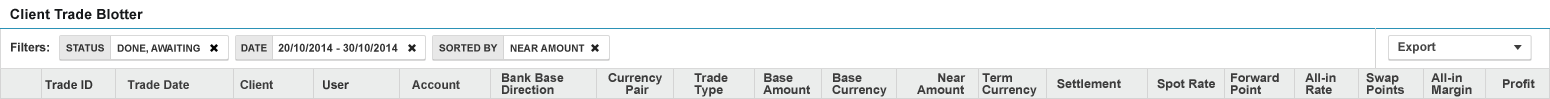
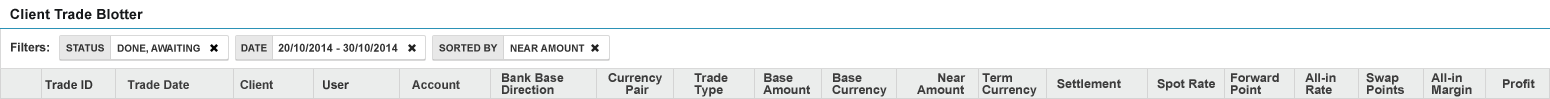
tiles buttons placeholder

diff --git a/resizable-layout/sass/resize.scss b/resizable-layout/sass/resize.scss
@@ -145,7 +145,14 @@ html, body {
 .tiles-head {
   height: 38px;
   background-image:url('../img/tiles-topbar.png');
-
+}
+.tiles-head-btn-wrap {
+  position:absolute;
+  left: 120px;
+  background-image: url('../img/tiles-topbar-btns.png');
+  display: block;
+  width: 90px;
+  height: 38px;
 }
 .tile {
   background-image: url('../img/advanced-pro-Tile_light.png');
@@ -161,9 +168,18 @@ html, body {
   }
 
 .blotter-head {
-   background-image: url('../img/client-trade-blotter-topbar.png'), url('../img/client-trade-blotter-topbar-1px.png');
+   background-image: url('../img/client-trade-blotter-topbar.png'), url('../img/client-trade-blotter-topbar-1px.png') ;
    background-repeat: no-repeat, repeat-x;
    height: 99px;
+}
+.blotter-head:after {
+  content: '';
+  background-image: url('../img/client-trade-blotter-export-btn.png');
+  height: 39px;
+  width: 175px;
+  position:absolute;
+  top: 29px;
+  right: 140px;
 }
 .blotter {
    overflow-y: scroll;

diff --git a/resizable-layout/css/resize.css b/resizable-layout/css/resize.css
@@ -132,6 +132,14 @@ html, body {
   height: 38px;
   background-image: url("../img/tiles-topbar.png"); }
 
+.tiles-head-btn-wrap {
+  position: absolute;
+  left: 120px;
+  background-image: url("../img/tiles-topbar-btns.png");
+  display: block;
+  width: 90px;
+  height: 38px; }
+
 .tile {
   background-image: url("../img/advanced-pro-Tile_light.png");
   float: left;
@@ -148,6 +156,15 @@ html, body {
   background-image: url("../img/client-trade-blotter-topbar.png"), url("../img/client-trade-blotter-topbar-1px.png");
   background-repeat: no-repeat, repeat-x;
   height: 99px; }
+
+.blotter-head:after {
+  content: '';
+  background-image: url("../img/client-trade-blotter-export-btn.png");
+  height: 39px;
+  width: 175px;
+  position: absolute;
+  top: 29px;
+  right: 140px; }
 
 .blotter {
   overflow-y: scroll;

diff --git a/resizable-layout/index.html b/resizable-layout/index.html
@@ -68,7 +68,9 @@
 
                 <div class="trades pane">trades</div>
                 <div class="pane">
-                    <div class="tiles-head"></div>
+                    <div class="tiles-head">
+                        <div class="tiles-head-btn-wrap"></div>
+                    </div>
                     <div class="tiles">
                         <span class="tile"></span>
                         <span class="tile"></span>
